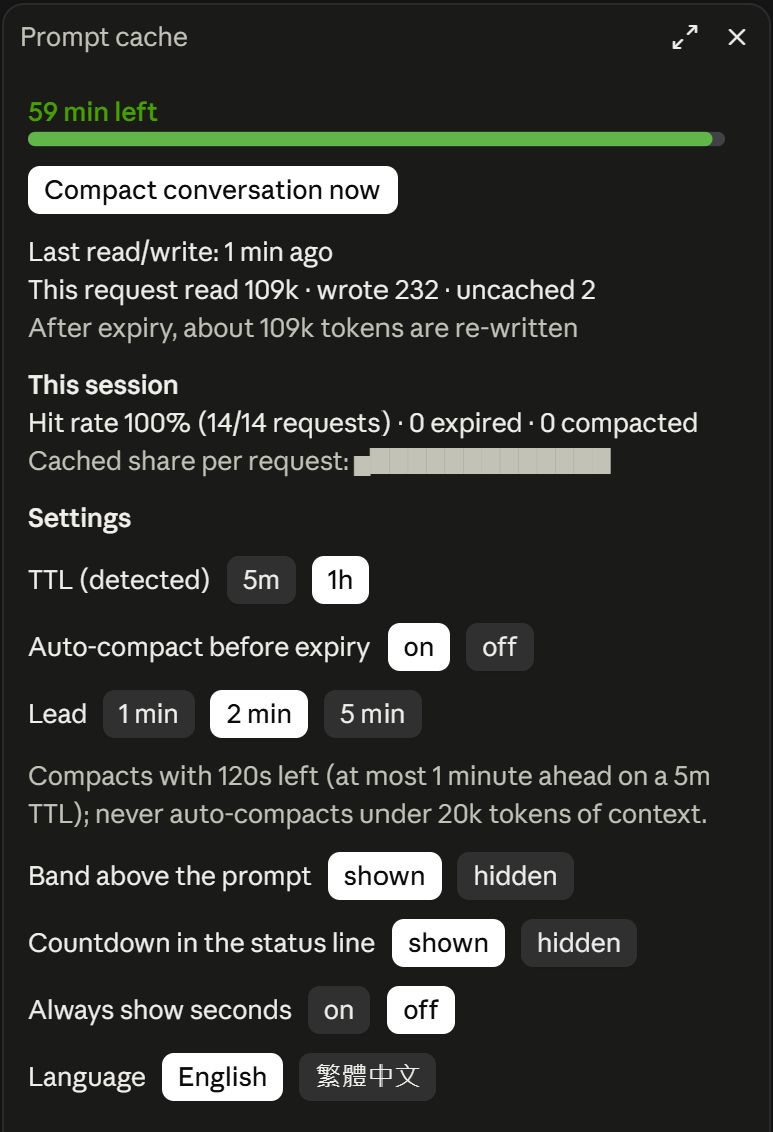
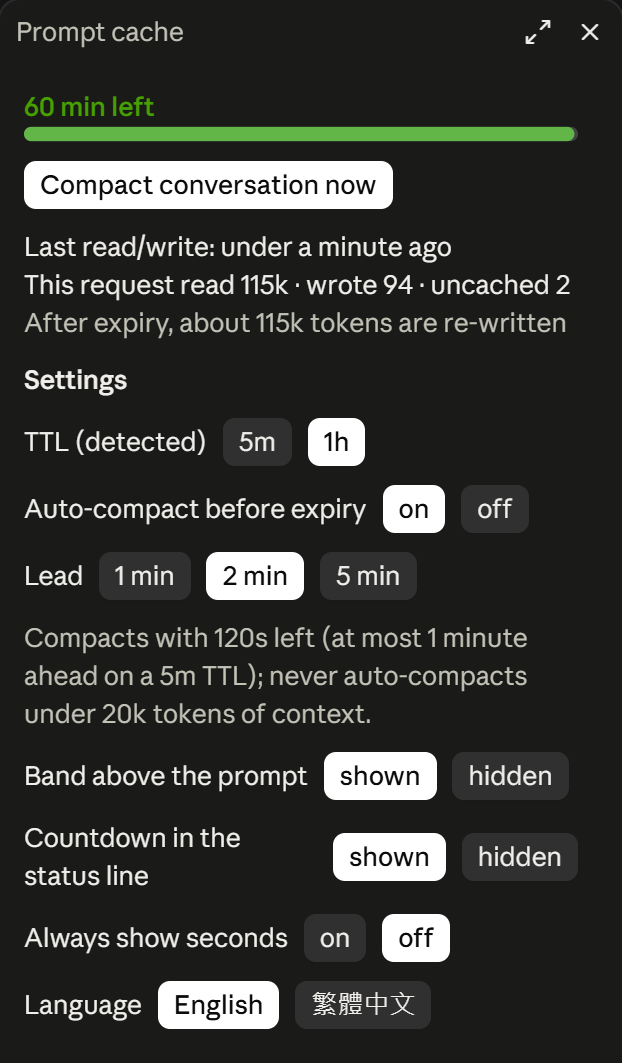
Refresh the pane screenshot without the This session block
Also note the READMEs were tested on Claude Code 2.1.300.

Release: patch

diff --git a/README.zh-TW.md b/README.zh-TW.md
@@ -67,7 +67,7 @@ git clone https://github.com/mileschintw/claude-cache-timer.git ~/.claude/mods/c
 之後開啟的每個 session 都會載入它。
 </details>
 
-**需求**：支援 function-hook mod 的 Claude Code 版本（目前仍是搶先體驗 API）。已在 Claude Code 2.1.295 的終端機與桌面版上測試。
+**需求**：支援 function-hook mod 的 Claude Code 版本（目前仍是搶先體驗 API）。已在 Claude Code 2.1.300 的終端機與桌面版上測試。
 
 ## 完整功能
 

diff --git a/README.md b/README.md
@@ -67,7 +67,7 @@ Then add the folder to the `env` block of `~/.claude/settings.json`:
 Every session started after that loads the mod.
 </details>
 
-**Requirements:** a Claude Code build with function-hook mods (an early-access API). Tested on Claude Code 2.1.295 in the terminal and in the desktop app.
+**Requirements:** a Claude Code build with function-hook mods (an early-access API). Tested on Claude Code 2.1.300 in the terminal and in the desktop app.
 
 ## All features
 
